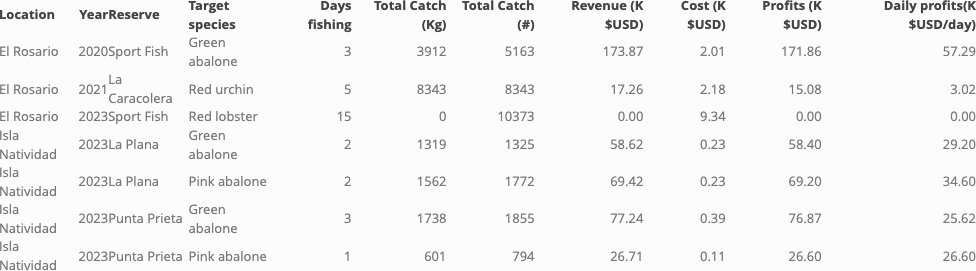
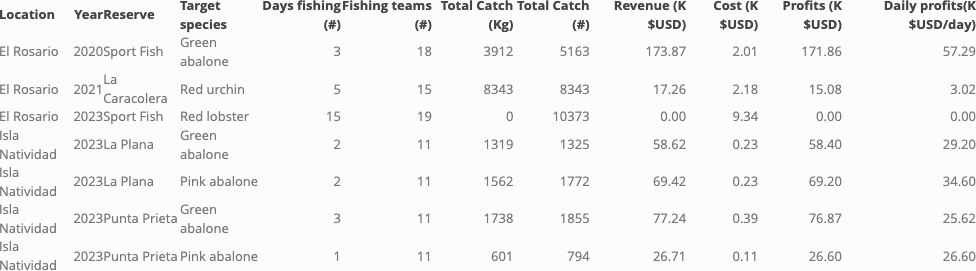
Updated profitability table and figures

diff --git a/results/tab/harvest_summary.html b/results/tab/harvest_summary.html
@@ -287,7 +287,8 @@ border: 0;
    <th style="text-align:right;"> Year </th>
    <th style="text-align:left;"> Reserve </th>
    <th style="text-align:left;"> Target species </th>
-   <th style="text-align:right;"> Days fishing </th>
+   <th style="text-align:right;"> Days fishing (#) </th>
+   <th style="text-align:right;"> Fishing teams (#) </th>
    <th style="text-align:right;"> Total Catch (Kg) </th>
    <th style="text-align:right;"> Total Catch (#) </th>
    <th style="text-align:right;"> Revenue (K $USD) </th>
@@ -303,6 +304,7 @@ border: 0;
    <td style="text-align:left;"> Sport Fish </td>
    <td style="text-align:left;"> Green abalone </td>
    <td style="text-align:right;"> 3 </td>
+   <td style="text-align:right;"> 18 </td>
    <td style="text-align:right;"> 3912 </td>
    <td style="text-align:right;"> 5163 </td>
    <td style="text-align:right;"> 173.87 </td>
@@ -316,6 +318,7 @@ border: 0;
    <td style="text-align:left;"> La Caracolera </td>
    <td style="text-align:left;"> Red urchin </td>
    <td style="text-align:right;"> 5 </td>
+   <td style="text-align:right;"> 15 </td>
    <td style="text-align:right;"> 8343 </td>
    <td style="text-align:right;"> 8343 </td>
    <td style="text-align:right;"> 17.26 </td>
@@ -329,6 +332,7 @@ border: 0;
    <td style="text-align:left;"> Sport Fish </td>
    <td style="text-align:left;"> Red lobster </td>
    <td style="text-align:right;"> 15 </td>
+   <td style="text-align:right;"> 19 </td>
    <td style="text-align:right;"> 0 </td>
    <td style="text-align:right;"> 10373 </td>
    <td style="text-align:right;"> 0.00 </td>
@@ -342,6 +346,7 @@ border: 0;
    <td style="text-align:left;"> La Plana </td>
    <td style="text-align:left;"> Green abalone </td>
    <td style="text-align:right;"> 2 </td>
+   <td style="text-align:right;"> 11 </td>
    <td style="text-align:right;"> 1319 </td>
    <td style="text-align:right;"> 1325 </td>
    <td style="text-align:right;"> 58.62 </td>
@@ -355,6 +360,7 @@ border: 0;
    <td style="text-align:left;"> La Plana </td>
    <td style="text-align:left;"> Pink abalone </td>
    <td style="text-align:right;"> 2 </td>
+   <td style="text-align:right;"> 11 </td>
    <td style="text-align:right;"> 1562 </td>
    <td style="text-align:right;"> 1772 </td>
    <td style="text-align:right;"> 69.42 </td>
@@ -368,6 +374,7 @@ border: 0;
    <td style="text-align:left;"> Punta Prieta </td>
    <td style="text-align:left;"> Green abalone </td>
    <td style="text-align:right;"> 3 </td>
+   <td style="text-align:right;"> 11 </td>
    <td style="text-align:right;"> 1738 </td>
    <td style="text-align:right;"> 1855 </td>
    <td style="text-align:right;"> 77.24 </td>
@@ -381,6 +388,7 @@ border: 0;
    <td style="text-align:left;"> Punta Prieta </td>
    <td style="text-align:left;"> Pink abalone </td>
    <td style="text-align:right;"> 1 </td>
+   <td style="text-align:right;"> 11 </td>
    <td style="text-align:right;"> 601 </td>
    <td style="text-align:right;"> 794 </td>
    <td style="text-align:right;"> 26.71 </td>
